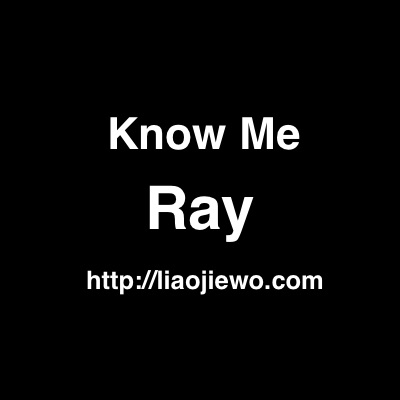
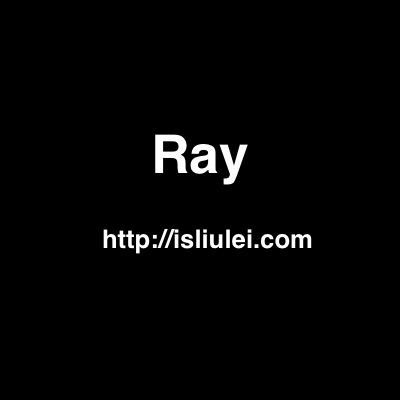
Site updated: 2018-01-08 18:06:41

Changed region(s): [[0.24, 0.27, 0.78, 0.63], [0.21, 0.66, 0.81, 0.75]]

diff --git a/index.html b/index.html
@@ -87,14 +87,14 @@
 
                         
                         <li>
-                            <a href="/about/">关于我</a>
+                            <a href="/archives/">Archives</a>
                         </li>
                         
                     
 
                         
                         <li>
-                            <a href="/archives/">Archives</a>
+                            <a href="/about/">关于我</a>
                         </li>
                         
                     
@@ -152,7 +152,7 @@
                 <div class="site-heading">
                     <h1>Ray</h1>
                     <!--<hr class="small">-->
-                    <span class="subheading">Let You Know Me</span>
+                    <span class="subheading">This is liulei</span>
                 </div>
             </div>
         </div>

diff --git a/2018/01/05/hello-world/index.html b/2018/01/05/hello-world/index.html
@@ -87,14 +87,14 @@
 
                         
                         <li>
-                            <a href="/about/">关于我</a>
+                            <a href="/archives/">Archives</a>
                         </li>
                         
                     
 
                         
                         <li>
-                            <a href="/archives/">Archives</a>
+                            <a href="/about/">关于我</a>
                         </li>
                         
                     

diff --git a/2018/01/06/mytest/index.html b/2018/01/06/mytest/index.html
@@ -87,14 +87,14 @@
 
                         
                         <li>
-                            <a href="/about/">关于我</a>
+                            <a href="/archives/">Archives</a>
                         </li>
                         
                     
 
                         
                         <li>
-                            <a href="/archives/">Archives</a>
+                            <a href="/about/">关于我</a>
                         </li>
                         
                     

diff --git a/about/index.html b/about/index.html
@@ -87,14 +87,14 @@
 
                         
                         <li>
-                            <a href="/about/">关于我</a>
+                            <a href="/archives/">Archives</a>
                         </li>
                         
                     
 
                         
                         <li>
-                            <a href="/archives/">Archives</a>
+                            <a href="/about/">关于我</a>
                         </li>
                         
                     

diff --git a/archives/2018/01/index.html b/archives/2018/01/index.html
@@ -87,14 +87,14 @@
 
                         
                         <li>
-                            <a href="/about/">关于我</a>
+                            <a href="/archives/">Archives</a>
                         </li>
                         
                     
 
                         
                         <li>
-                            <a href="/archives/">Archives</a>
+                            <a href="/about/">关于我</a>
                         </li>
                         
                     

diff --git a/archives/2018/index.html b/archives/2018/index.html
@@ -87,14 +87,14 @@
 
                         
                         <li>
-                            <a href="/about/">关于我</a>
+                            <a href="/archives/">Archives</a>
                         </li>
                         
                     
 
                         
                         <li>
-                            <a href="/archives/">Archives</a>
+                            <a href="/about/">关于我</a>
                         </li>
                         
                     

diff --git a/archives/index.html b/archives/index.html
@@ -87,14 +87,14 @@
 
                         
                         <li>
-                            <a href="/about/">关于我</a>
+                            <a href="/archives/">Archives</a>
                         </li>
                         
                     
 
                         
                         <li>
-                            <a href="/archives/">Archives</a>
+                            <a href="/about/">关于我</a>
                         </li>
                         
                     

diff --git a/tags/hexo/index.html b/tags/hexo/index.html
@@ -87,14 +87,14 @@
 
                         
                         <li>
-                            <a href="/about/">关于我</a>
+                            <a href="/archives/">Archives</a>
                         </li>
                         
                     
 
                         
                         <li>
-                            <a href="/archives/">Archives</a>
+                            <a href="/about/">关于我</a>
                         </li>
                         
                     

diff --git a/tags/index.html b/tags/index.html
@@ -87,14 +87,14 @@
 
                         
                         <li>
-                            <a href="/about/">关于我</a>
+                            <a href="/archives/">Archives</a>
                         </li>
                         
                     
 
                         
                         <li>
-                            <a href="/archives/">Archives</a>
+                            <a href="/about/">关于我</a>
                         </li>
                         
                     

diff --git a/tags/test/index.html b/tags/test/index.html
@@ -87,14 +87,14 @@
 
                         
                         <li>
-                            <a href="/about/">关于我</a>
+                            <a href="/archives/">Archives</a>
                         </li>
                         
                     
 
                         
                         <li>
-                            <a href="/archives/">Archives</a>
+                            <a href="/about/">关于我</a>
                         </li>
                         
                     

diff --git a/tags/生活/index.html b/tags/生活/index.html
@@ -87,14 +87,14 @@
 
                         
                         <li>
-                            <a href="/about/">关于我</a>
+                            <a href="/archives/">Archives</a>
                         </li>
                         
                     
 
                         
                         <li>
-                            <a href="/archives/">Archives</a>
+                            <a href="/about/">关于我</a>
                         </li>
                         
                     
